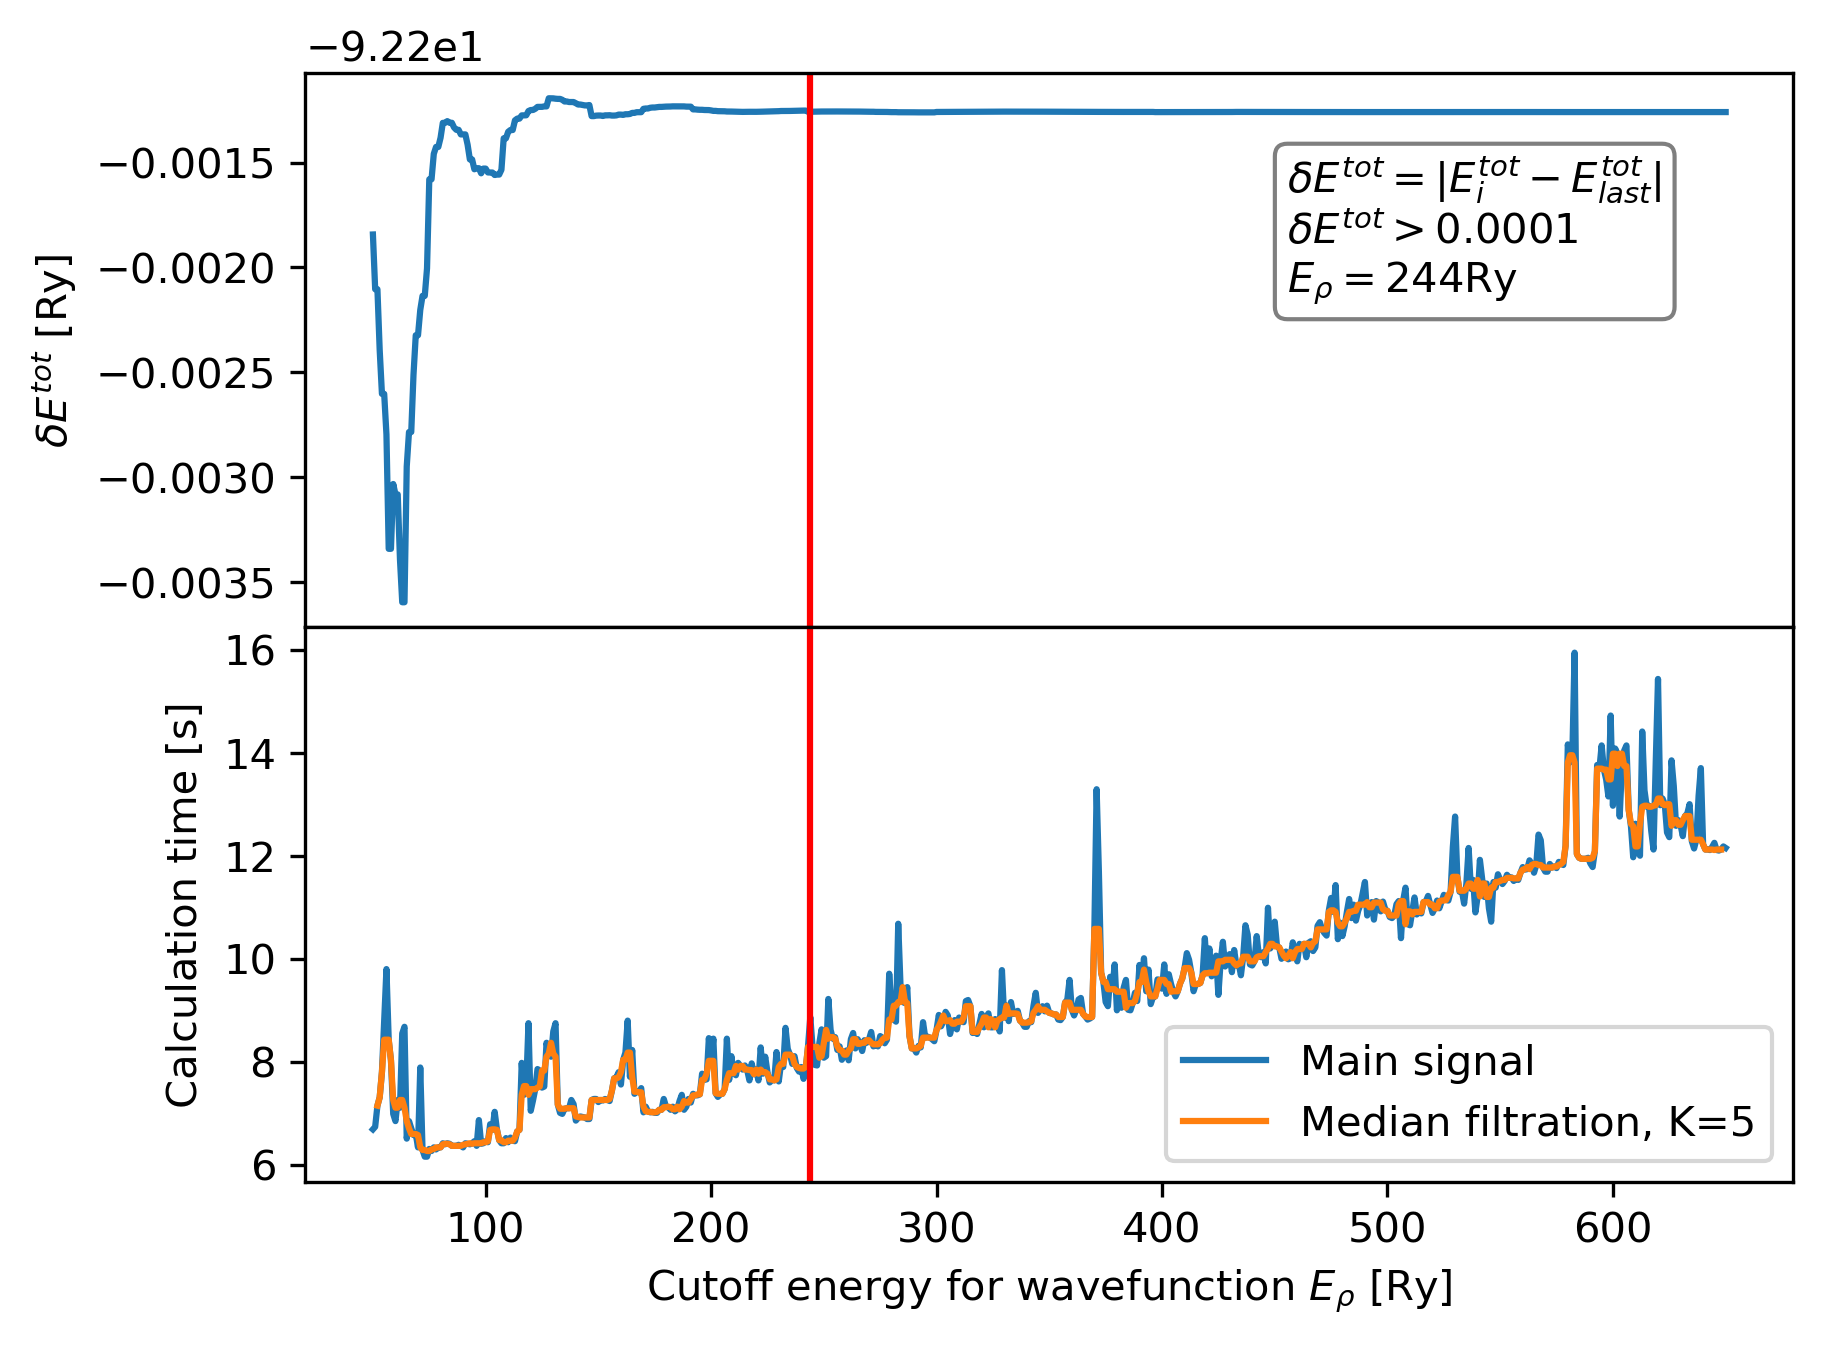
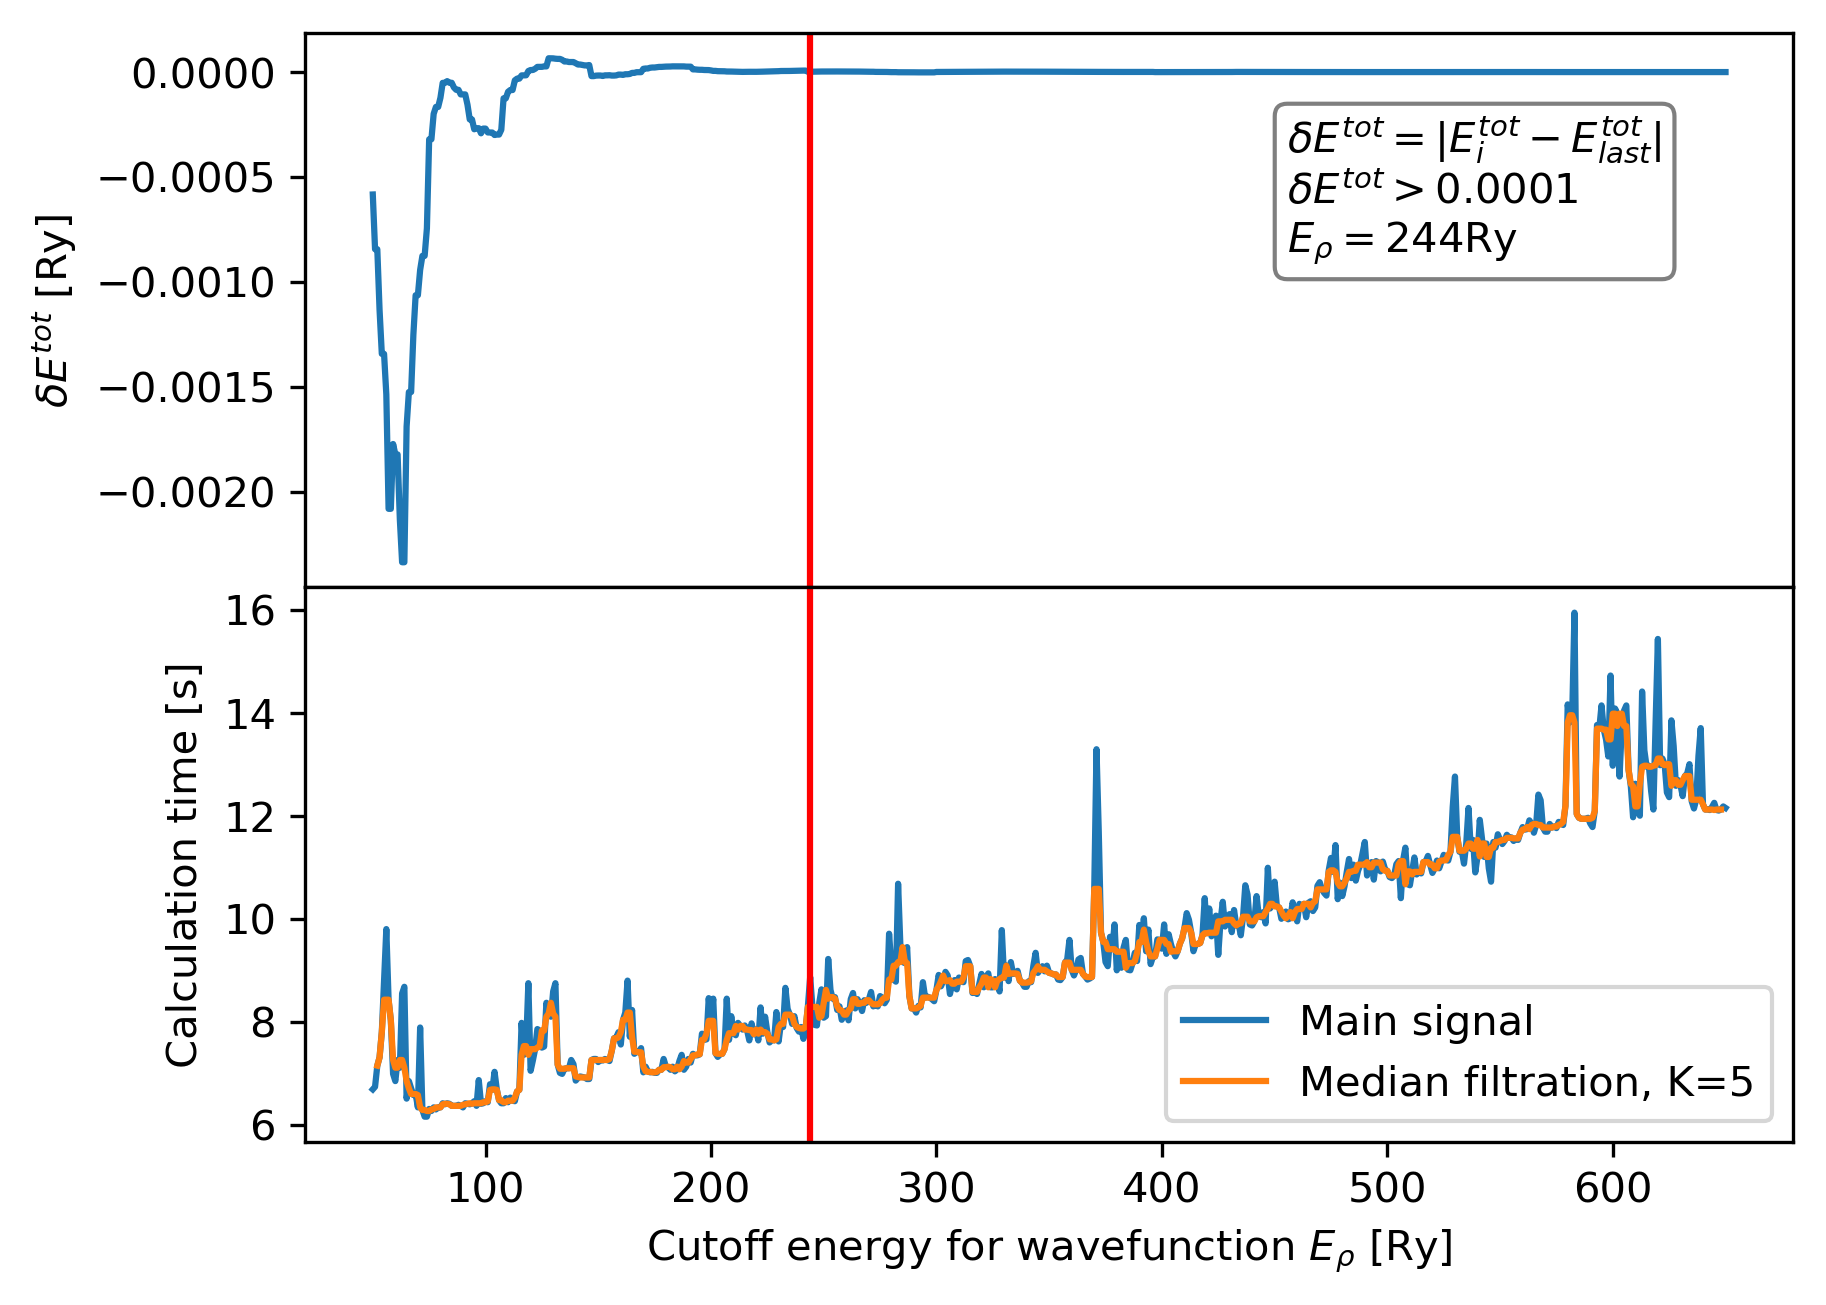
Fix RHO image.

diff --git a/Cutoff_energies/E_rho_cut_analyse.py b/Cutoff_energies/E_rho_cut_analyse.py
@@ -42,7 +42,7 @@ def main(n_digits, idx_filt, comp_name, PSI_v, PSI_m, KS, filt, save_fig):
                              ])
     x_label      = r"Cutoff energy for wavefunction $E_\rho$ [Ry]"
     
-    CE.plot_E(Tot_E_rho, Tot_E, "E_rho",
+    CE.plot_E(Tot_E_rho, Tot_E_dif, "E_rho",
               data_comp, filt_info[2], filt_info[1], filt_info[0],
               edge_idx, textstr, 0.85, x_label, save_fig)
     
